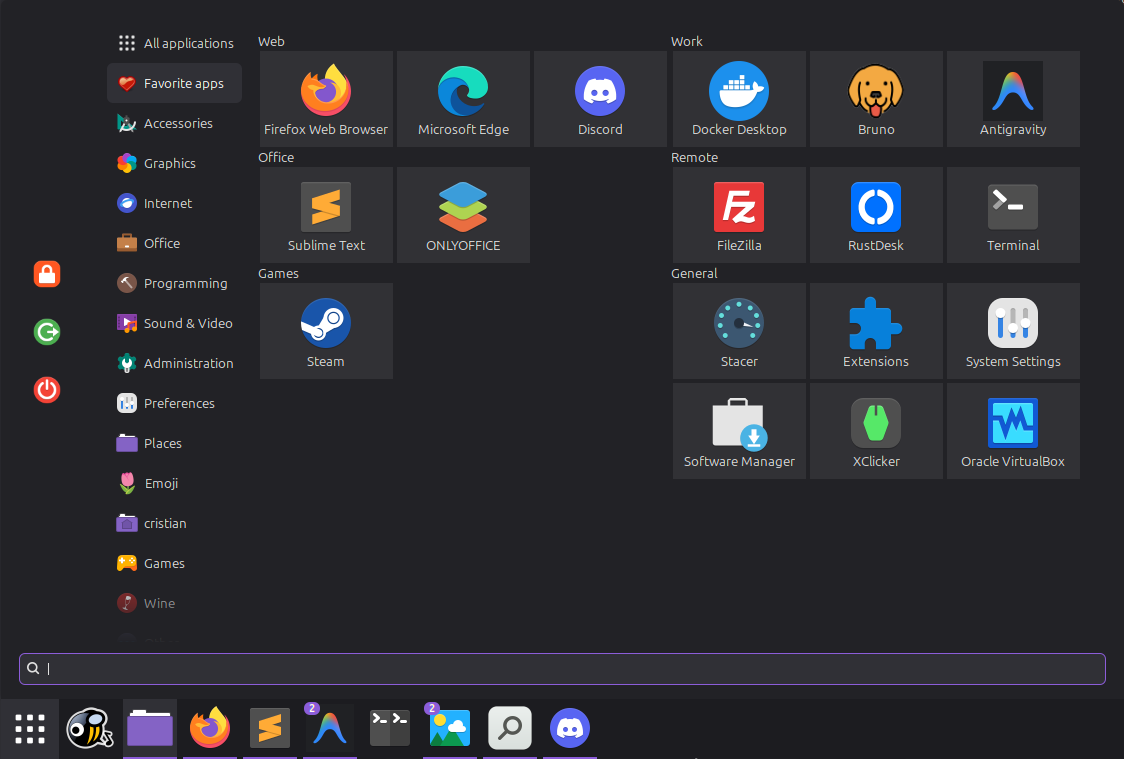
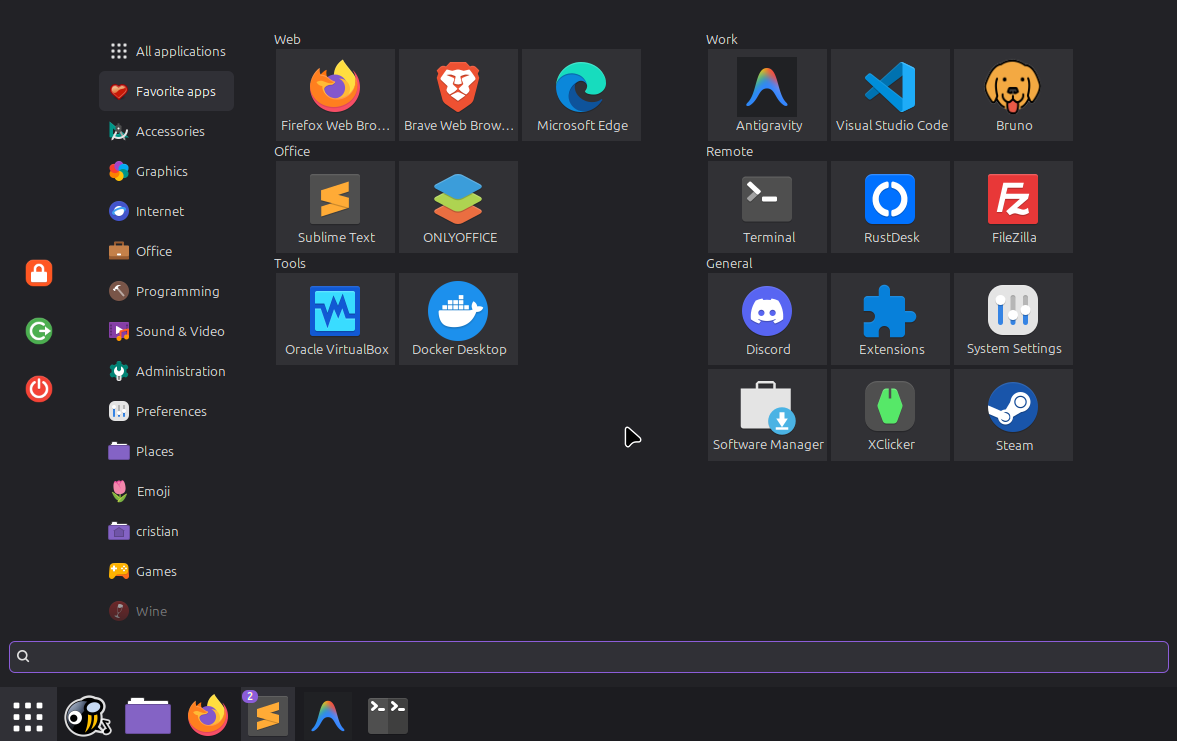
Add priority to apps

diff --git a/Cinnamenu-metro@json/5.8/appsview.js b/Cinnamenu-metro@json/5.8/appsview.js
@@ -532,13 +532,16 @@ class AppsView {
     // MARK: appsByCategory
     appsByCategory(appList) {
         let tempCategoryList = {};
+        let appCount = 100;
         appList.forEach(app => {
-            let categoryName = app.get_app_info().get_string("CategoryDisplay") || "General";
+            appCount++;
+            let categoryName = app.get_app_info().get_string("CinnamenuCategory") || "General";
+            let priority = app.get_app_info().get_string("CinnamenuPriority") || appCount;
 
             if (!tempCategoryList[categoryName]) {
                 tempCategoryList[categoryName] = [];
             }
-            tempCategoryList[categoryName].push(app);
+            tempCategoryList[categoryName][priority] = app;
         });
 
         let order = { "web": 1, "work": 2, "office": 3, "remote": 4, "tools": 5, "general": 999 };

diff --git a/README.md b/README.md
@@ -24,11 +24,13 @@
 Instead of forcing you to manually manage a complex JSON file every time a new app is installed, this applet reads your groups natively from your application launchers.
 
 1. **Edit the Launcher:**  
-   Open your desired `.desktop` file and add the `CategoryDisplay` field inside the `[Desktop Entry]` section. The value will be the exact name of the group:
+   Open your desired `.desktop` file and add the `CinnamenuCategory` field inside the `[Desktop Entry]` section. The value will be the exact name of the group.
+   Additionally you can add `CinnamenuPriority` field to specify the order of the apps in the group. The lower the number, the higher the priority. If not specified, the app will be placed at the end of the group.:
    ```ini
    [Desktop Entry]
    Name=Antigravity
-   CategoryDisplay=Work
+   CinnamenuCategory=Work
+   CinnamenuPriority=1
    ```
 
 2. **💡 Pro Tip (Avoid losing your groups):**  
@@ -47,5 +49,5 @@ Instead of forcing you to manually manage a complex JSON file every time a new a
 
 ## ⚖ Credits & License
 
-* **Credits:** This applet is a modified fork of the classic [Cinnamenu](https://github.com/fredcw/Cinnamenu) applet by **fredcw**.
+* **Credits:** This applet is a modified version of the classic [Cinnamenu](https://github.com/fredcw/Cinnamenu) applet by **fredcw**.
 * **License:** This project is licensed under the terms of the **GNU General Public License v3.0 (GPL-3.0)**.
